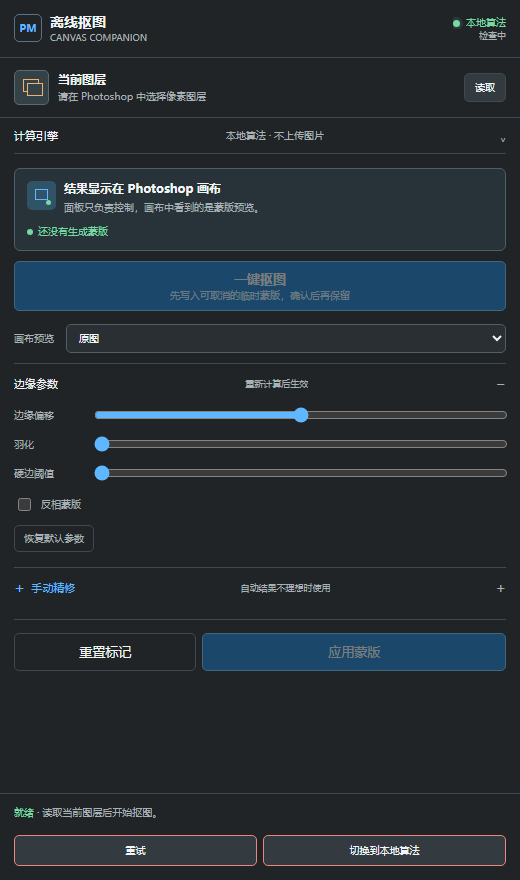
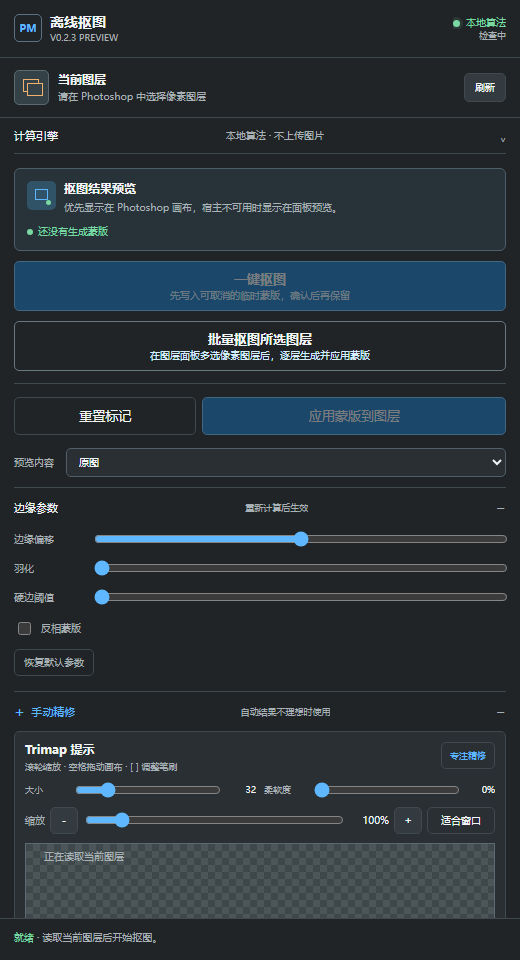
release: publish 0.2.3 preview

diff --git a/README.md b/README.md
@@ -11,13 +11,13 @@ Photoshop 抠图插件的公开下载仓库。
 - `ps-offline-mask-*-uxp-preview.zip`：UXP Developer Tool 开发预览包
 - 生产 `.ccx`：待 C++ Hybrid 原生引擎、Windows/macOS 签名和 Photoshop 24.4+ 回归完成后发布
 
-`v0.2.2-preview` 修复本轮 Photoshop 实测反馈：插件打开或切换单个像素图层后会自动读取，“刷新”仅作为同层内容更新的兜底；预览图支持滚轮缩放以及空格 + 左键拖动平移；未知、保留和删除工具的圆形画笔在 Photoshop 24.4 的 UXP 宿主中保持可见并可涂抹；批量抠图可直接处理尚未创建用户蒙版的普通像素图层。
+`v0.2.3-preview` 针对 Photoshop 24.4 / UXP 7.0 重做预览输入层：同时兼容现代与传统鼠标事件，滚轮可直接缩放，拖动与松键具有 document 级兜底，移出面板或失焦不会留下粘住的笔画。
 
-批量处理固定使用本地算法并严格串行。非像素图层会跳过，单层失败会恢复该层原蒙版并继续，文档、图层选择或边界变化会立即停止后续写入。
+Trimap 工具现在显示半透明双圈画笔；`[` / `]` 调整大小，“柔软度”会真实写入 UNKNOWN 过渡外环和保留/删除确定内核。新增“专注精修”模式，可让预览占满当前面板；需要独立摆放时可把 Photoshop 面板拖成浮动窗口。
 
-批量失败时面板会显示图层名和具体错误原因，不再只显示“失败 N 层”。无原始蒙版的图层会先记录可逆空快照；若应用中途失败，插件会删除临时蒙版并继续处理下一层。
+批量处理仍固定使用本地算法并严格串行。非像素图层会跳过，单层失败会恢复该层原蒙版并继续，文档、图层选择或边界变化会立即停止后续写入。
 
-从旧版本升级时，请在 UXP Developer Tool 中 Stop 旧实例，重新解压当前 Release 包，然后 Add/Load 新目录中的 `manifest.json`。不要覆盖正在加载的旧目录。
+从旧版本升级时，请在 UXP Developer Tool 中 Stop 旧实例，重新解压当前 Release 包，然后 Add/Load 新目录中的 `manifest.json`。不要覆盖正在加载的旧目录。本版自动化测试与发布审计已通过；Photoshop 画笔、滚轮和平移仍需由用户安装后真机复测。
 
 源码、测试和 PRD 位于私有源码仓库，不在本仓库维护。
 

diff --git a/docs/USAGE.md b/docs/USAGE.md
@@ -1,6 +1,6 @@
 # 使用说明
 
-![0.2 面板预览](ui-preview-0.2.png)
+![0.2 面板预览](../assets/ui-preview-0.2.png)
 
 ## 基本流程
 
@@ -9,9 +9,11 @@
 3. 结果优先写成可取消的临时用户蒙版并显示在 Photoshop 画布中；若宿主拒绝临时预览，插件会切换到面板蒙版预览，仍可点击“应用蒙版到图层”。
 4. 在“原图/蒙版”之间切换，检查主体边缘、孔洞和半透明区域。
 5. 展开“手动精修”后可用缩放滑杆、加减按钮或直接滚动鼠标滚轮，在 5%–800% 间缩放预览图；按住空格并用鼠标左键拖动可平移放大后的图像；“适合窗口”会按当前预览区自动取整。
-6. 结果不理想时选择“保留”“删除”或“未知区域”；插件会切回原图并显示圆形画笔，按住鼠标粗略涂抹。
-7. 调整边缘偏移、羽化和硬边阈值后，点击“根据标记重新计算”；参数变更后旧预览不能直接应用。
-8. 确认 Photoshop 画布或面板中的结果后，点击靠近一键抠图入口的“应用蒙版到图层”。
+6. 结果不理想时选择“保留”“删除”或“未知区域”；插件会切回原图并显示半透明圆形画笔，按住鼠标粗略涂抹。将鼠标停在预览区时，按 `[` 或 `]` 可缩小或放大笔刷。
+7. “柔软度”会为保留/删除笔刷生成蓝色 UNKNOWN 过渡外环和对应颜色的确定内核，实际改变 Trimap 与重算结果；未知区域笔刷始终使用完整蓝色圆形。
+8. 点击“专注精修”可隐藏批量、引擎和边缘参数区，让预览占满当前面板；再次点击退出。需要独立摆放时，把该面板从 Photoshop 停靠区拖出成为浮动面板。
+9. 调整边缘偏移、羽化和硬边阈值后，点击“根据标记重新计算”；参数变更后旧预览不能直接应用。
+10. 确认 Photoshop 画布或面板中的结果后，点击“应用蒙版到图层”。
 
 ## 批量抠图
 

diff --git a/docs/RELEASE-0.2.3.md b/docs/RELEASE-0.2.3.md
@@ -1,0 +1,26 @@
+# v0.2.3-preview
+
+## 本轮修复
+
+- 为 Photoshop 24.4 / UXP 7.0 增加专用透明输入层，不再依赖旧宿主尚未支持的 `pointer-events: none` 才能绘制。
+- 同时监听 `pointer`、传统鼠标、`wheel`、`mousewheel` 和旧滚轮事件；重复事件会去重。
+- 绘制、平移和预览高度拖动增加 document 级回退；鼠标松开、移出面板或窗口失焦会安全结束笔画。
+- 未知、保留和删除工具显示半透明双圈画笔；`[` / `]` 可调整画笔大小。
+- 增加柔软度。保留/删除笔刷写入 UNKNOWN 过渡外环和确定标签内核，实际参与 Alpha 重算；100% 柔软度仍保证至少一个确定标签像素。
+- 增加“专注精修”模式，保留缩放、画笔、重算、重置和应用，并允许继续拖动调整预览高度。
+
+## 验证
+
+- 自动化测试：`99/99` 通过。
+- JavaScript 语法检查：通过。
+- 开发预览包安全审计：通过。
+- 520×960 普通面板和专注精修布局静态验收：通过。
+- 遵守用户要求，本轮没有由自动化流程操作 Photoshop；安装后请由用户完成滚轮、涂抹、快捷键、平移和应用的真机复测。
+
+## 升级
+
+1. 在 UXP Developer Tool 中 Stop 旧插件。
+2. 下载并解压 `ps-offline-mask-0.2.3-uxp-preview.zip` 到新目录。
+3. Add Plugin 并选择新目录中的 `manifest.json`。
+4. Load 后确认面板标题显示 `v0.2.3 preview`。
+5. 单选像素图层，将鼠标移入预览区，依次测试滚轮、三种画笔、`[` / `]`、柔软度、空格拖动和“应用蒙版到图层”。

diff --git a/docs/INSTALL.md b/docs/INSTALL.md
@@ -10,11 +10,13 @@
 
 1. 安装 Photoshop 24.4 或更高版本。
 2. 安装 Adobe UXP Developer Tool。
-3. 从 GitHub Releases 下载 `ps-offline-mask-*-uxp-preview.zip` 并解压到本地目录。
+3. 从 GitHub Releases 下载 `ps-offline-mask-0.2.3-uxp-preview.zip` 并解压到一个新的本地目录。
 4. 打开 UXP Developer Tool，选择 **Add Plugin**，指向解压目录中的 `manifest.json`。
 5. 点击 **Load**，在 Photoshop 的插件菜单中打开“离线抠图”面板。
 
 面板支持在 Photoshop 中拖拽浮动窗口边缘调整大小，宿主允许的范围为约 `320×420` 到 `1600×2400`。如果旧实例仍保持旧尺寸，请在 UXP Developer Tool 中 Stop 后重新 Load 一次。
+
+从旧版本升级时不要直接覆盖正在 Load 的目录。先 Stop 旧插件，再 Add/Load 新目录中的 `manifest.json`；确认面板标题显示 `v0.2.3 preview` 后再测试。
 
 开发预览包只处理当前文档中选中的像素图层；单选一个像素图层时会自动读取，手动“刷新”作为同层内容更新的兜底；多选时进入批量模式并处理全部选中像素图层。文字、智能对象、组和矢量图层需要先在 Photoshop 中栅格化。
 
